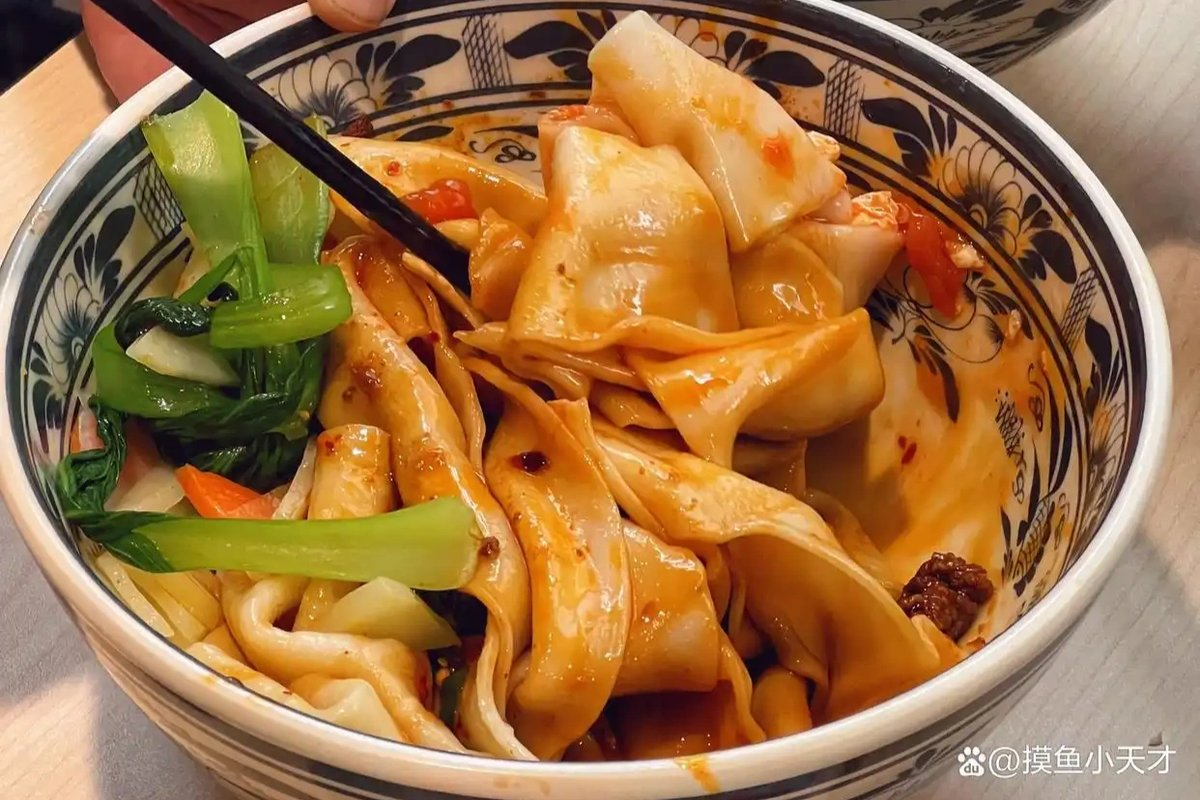
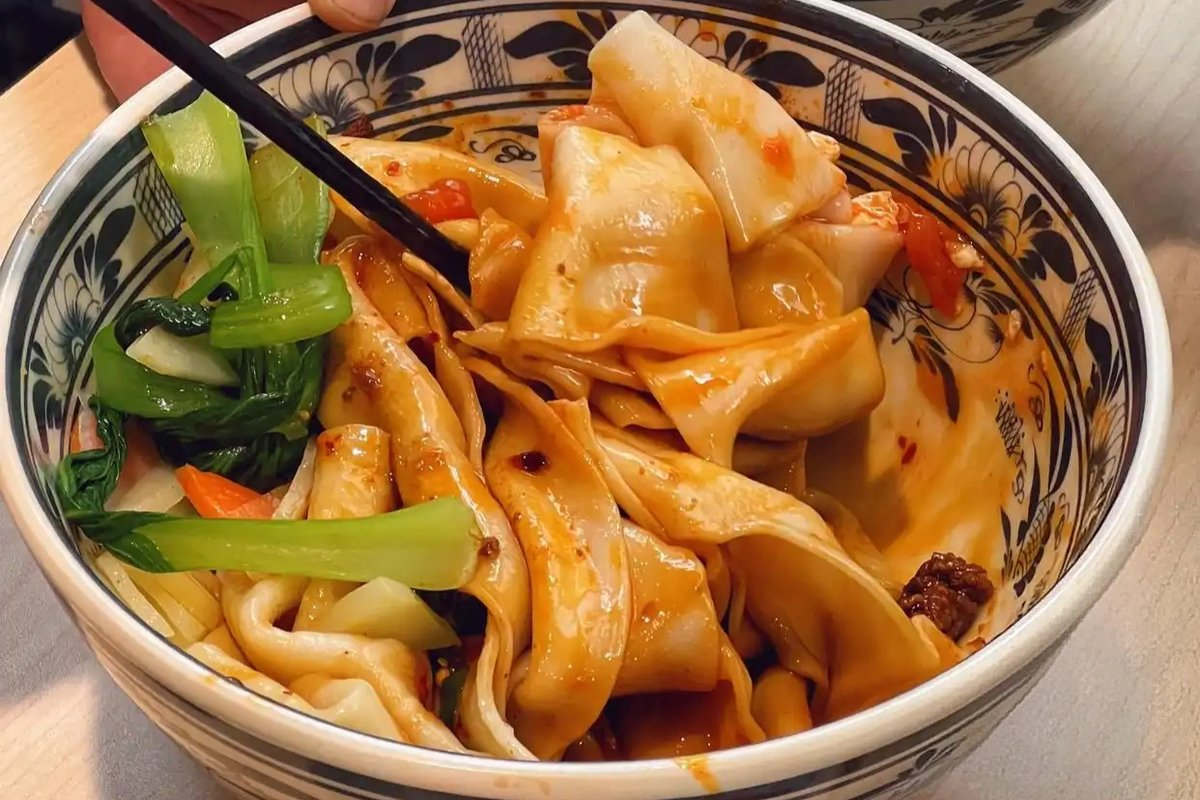
update: replace you-po-mian image 3 with user photo

Changed region(s): [[0.7708, 0.6562, 1.0, 1.0]]

diff --git a/cuisine/you-po-mian/index.html b/cuisine/you-po-mian/index.html
@@ -34,7 +34,7 @@
 <p><strong>The Overloaded Version.</strong> I've seen versions with bean sprouts, shredded carrot, cucumber matchsticks, fatty pork, pickled mustard greens — a whole salad bar dumped on top. You Po Mian is not bibimbap. The dish works because it's spartan. Chili, garlic, scallion, oil, noodles. That's it. Every addition is an apology, and this dish has nothing to apologize for.</p>
 <p><strong>The Lukewarm Oil Version.</strong> The oil must be smoking. Not warm. Not "heated through." Smoking. If the chili flakes don't sizzle when the oil hits, send it back. Cold oil on noodles is just an oily noodle salad. The flash-cooking of aromatics is the entire technique. Without it, you're eating raw garlic and chili powder on boiled dough.</p>
 <p>The right You Po Mian: wide hand-pulled noodles in a ceramic bowl, piled with coarse chili flakes and minced raw garlic, hit with smoking rapeseed oil that blooms the chili and toasts the garlic on contact, scallions still green and crisp. A splash of black vinegar and light soy at the bottom. You mix it yourself, scraping the sides, coating every belt of noodle, while the oil still crackles.</p>
-<p><img src="/images/you-po-mian-3.jpg" alt="You Po Mian — the mixed bowl, noodles coated in chili-red oil, chopsticks mid-lift, empty bowl on the side, Xi'an street stall" width="1200" height="800" decoding="async" loading="lazy"></p>
+<p><img src="/images/you-po-mian-3.jpg" alt="You Po Mian plated" width="1200" height="800" decoding="async" loading="lazy"></p>
 <h2 id="how-to-eat-it">How to Eat It</h2>
 <p>You mix immediately. The second the oil stops crackling, grab your chopsticks and go. Lift from the bottom — the vinegar and soy pool there — and fold the noodles over themselves until every strand is the color of sunset. Don't wait. Cold You Po Mian is an oxymoron.</p>
 <p>I learned this the hard way. First bowl in Xi'an, I sat there admiring it for thirty seconds, taking a photo, doing the tourist thing. By the time I mixed, the oil had cooled into a film. Still good. Not transcendent. The second bowl — the next night, same alley — I mixed while the oil was still popping. Different dish entirely.</p>